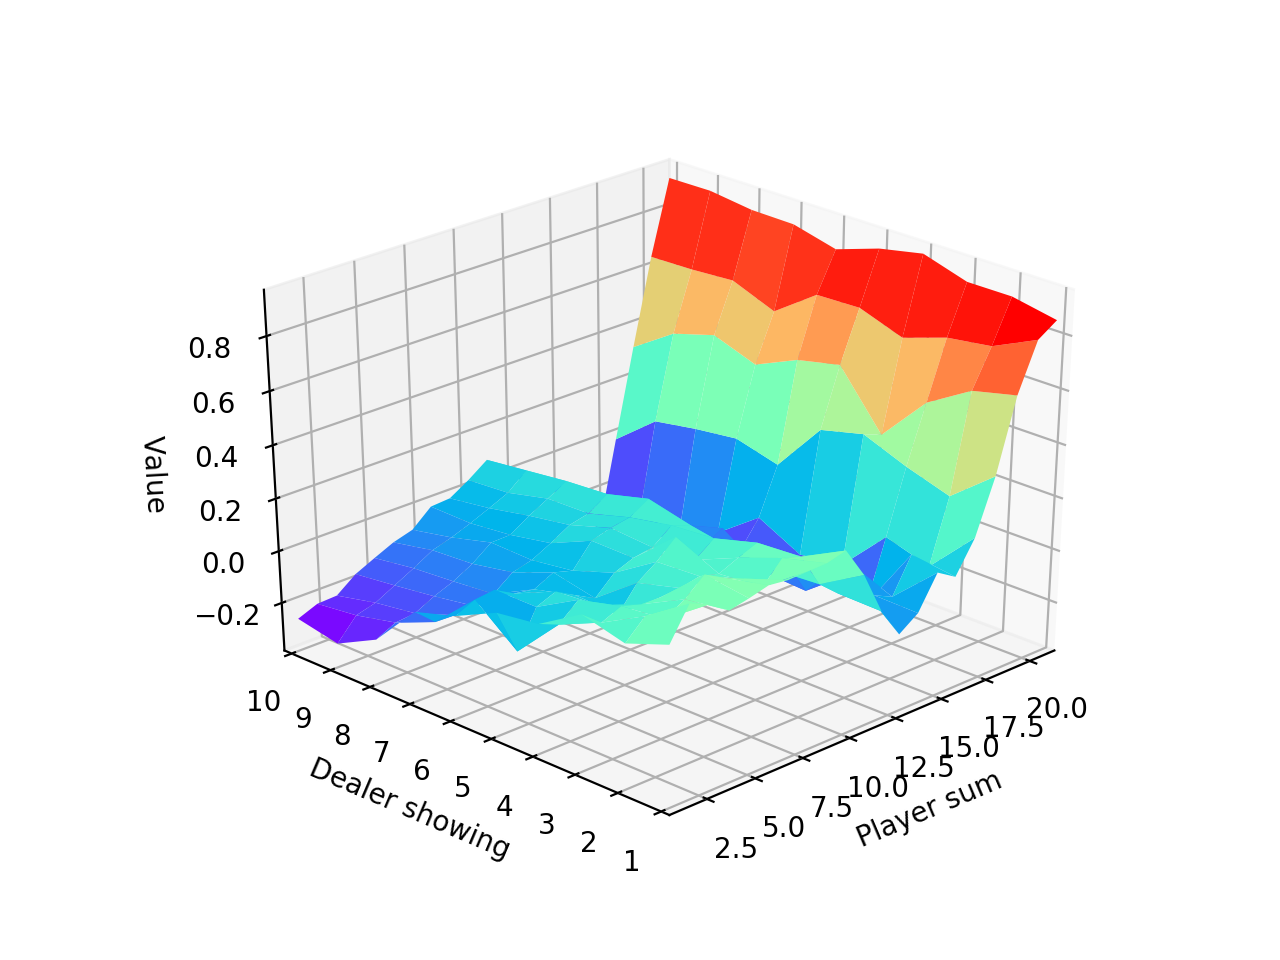
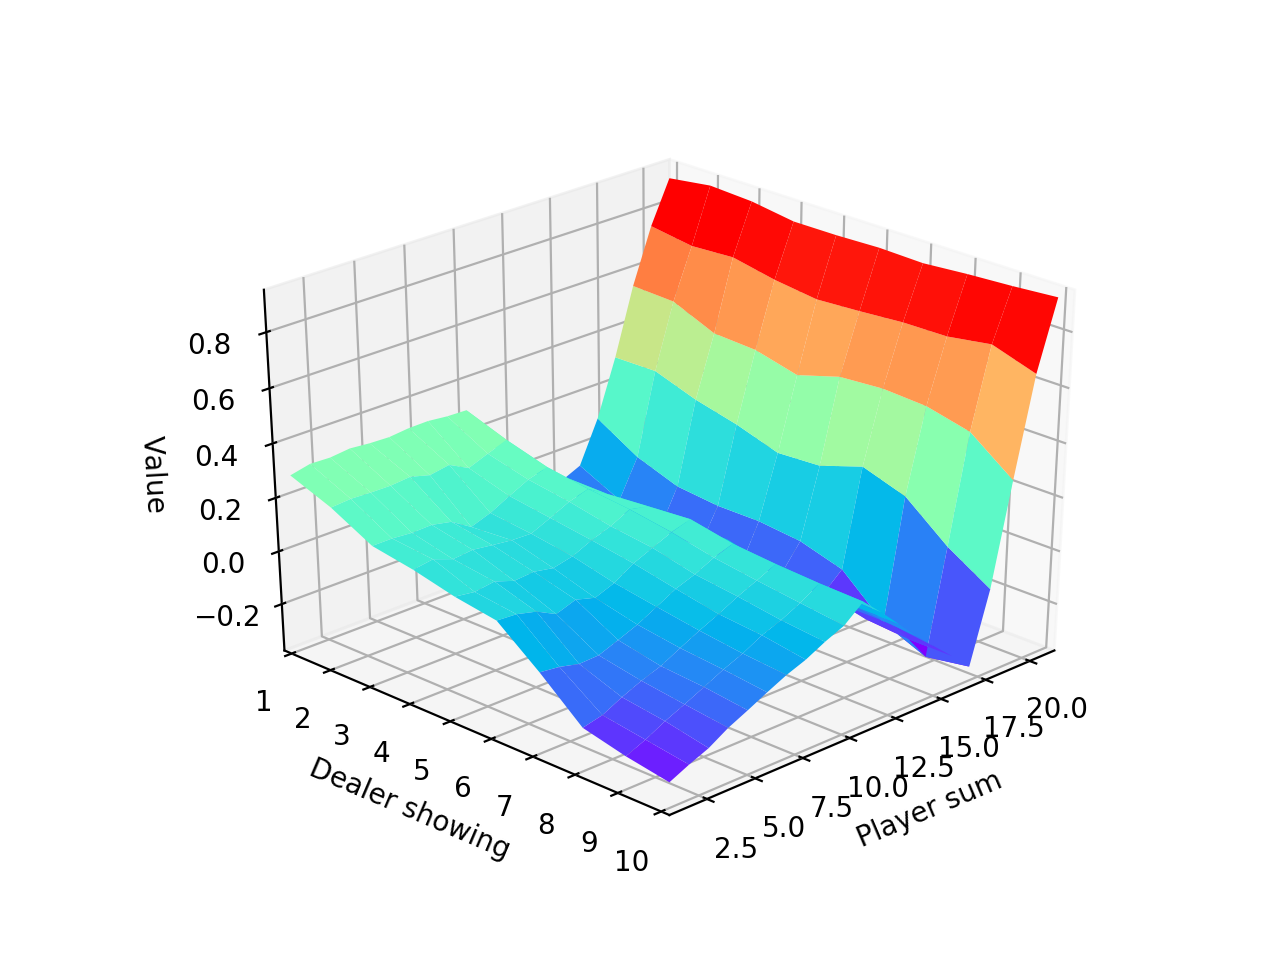
MC graph changed

diff --git a/mc.py b/mc.py
@@ -14,7 +14,7 @@ def MC_control():
 	cnt_state = np.zeros((21, 10))
 	N = 100.0
 
-	num_episodes = 100000
+	num_episodes = 1000000
 
 	for i_episode in range(num_episodes):
 		s, _, done = env.reset()
@@ -65,7 +65,7 @@ def MC_control():
 	ax.set_ylabel('Dealer showing')
 	ax.view_init(azim=225)
 	ax.set_xlim(1, 21)
-	ax.set_ylim(1, 10)
+	ax.set_ylim(10, 1)
 	plt.savefig('MC')
 	plt.show()
 
